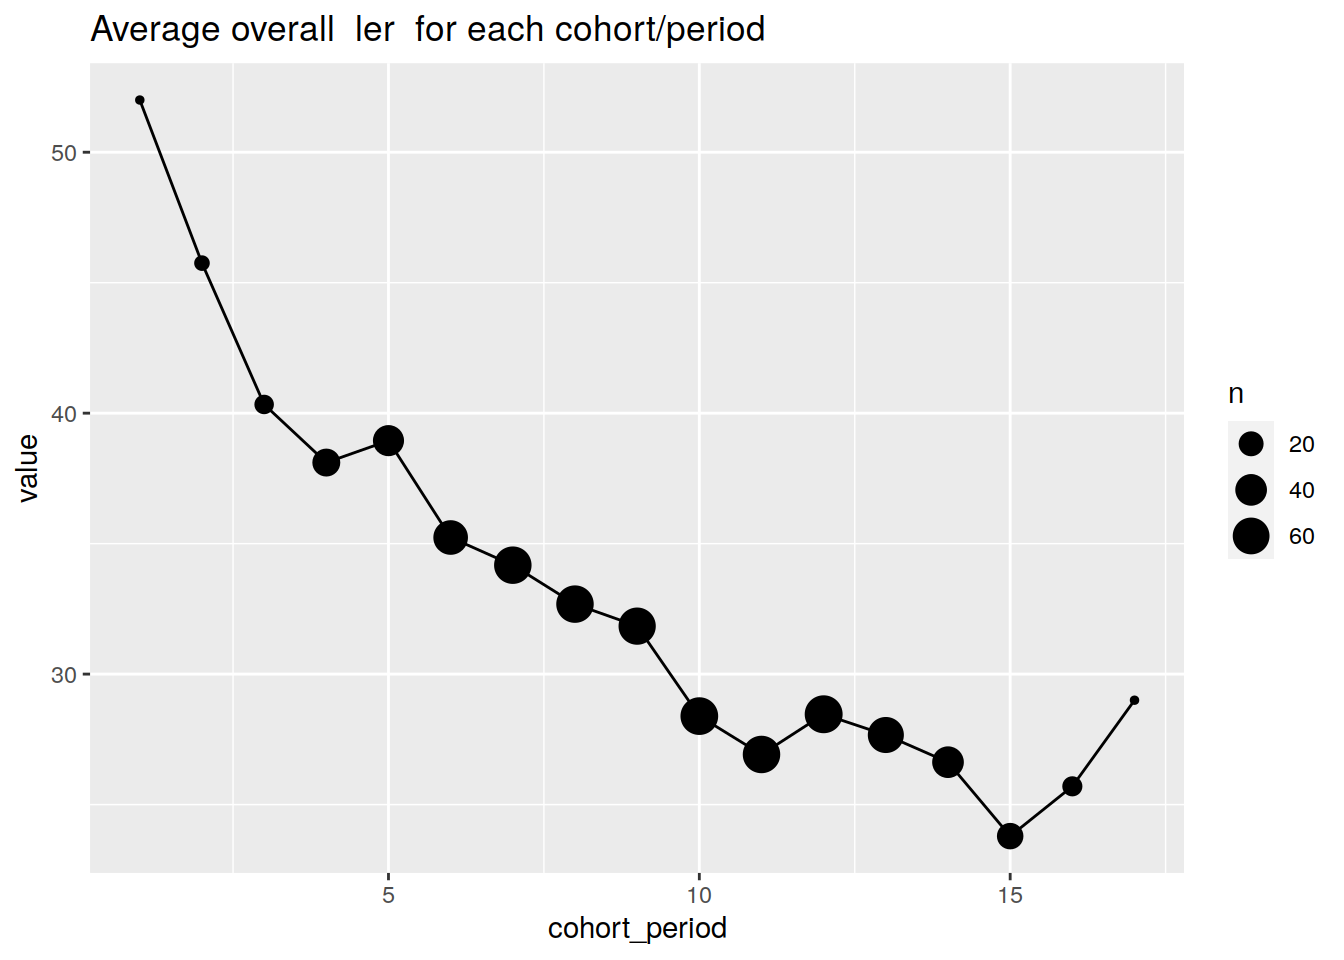
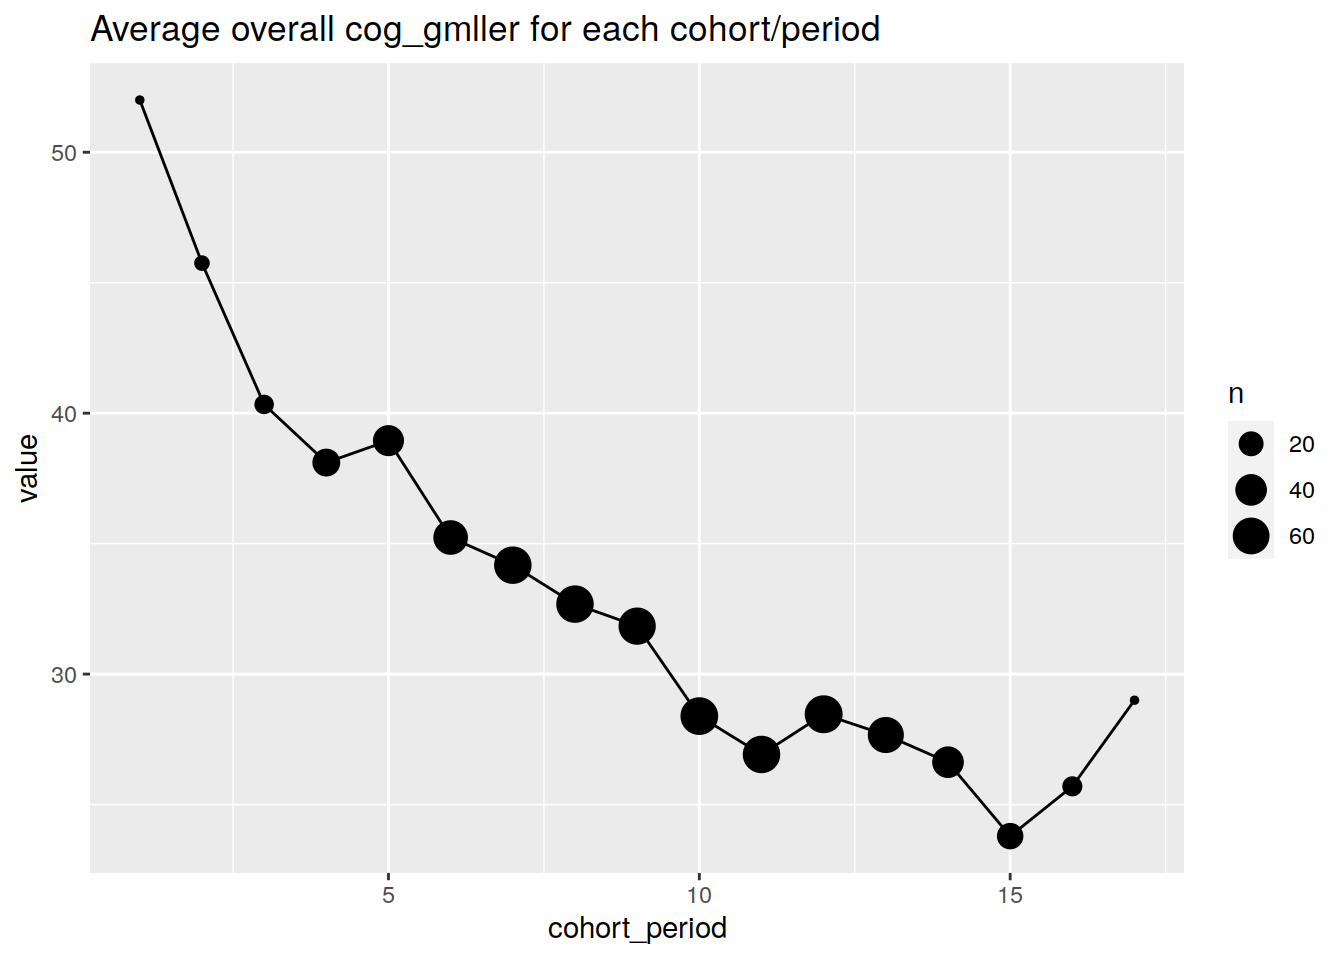
Build site.

Changed region(s): [[0.25, 0.0, 0.6562, 0.0625]]

diff --git a/docs/initial.html b/docs/initial.html
@@ -403,7 +403,7 @@ div.section {
 <div class="tab-content">
 <div id="summary" class="tab-pane fade in active">
 <p>
-<strong>Last updated:</strong> 2020-04-15
+<strong>Last updated:</strong> 2020-04-16
 </p>
 <p>
 <strong>Checks:</strong> <span class="glyphicon glyphicon-ok text-success" aria-hidden="true"></span> 7 <span class="glyphicon glyphicon-exclamation-sign text-danger" aria-hidden="true"></span> 0
@@ -494,24 +494,22 @@ This reproducible <a href="http://rmarkdown.rstudio.com">R Markdown</a> analysis
 <div class="panel panel-default">
 <div class="panel-heading">
 <p class="panel-title">
-<a data-toggle="collapse" data-parent="#workflowr-checks" href="#strongRepositoryversionstrongbaeba67"> <span class="glyphicon glyphicon-ok text-success" aria-hidden="true"></span> <strong>Repository version:</strong> baeba67 </a>
+<a data-toggle="collapse" data-parent="#workflowr-checks" href="#strongRepositoryversionstrongahrefhttpsgithubcomdewollerscottgrotontree4d3049445e3a359d00a7f00b9f14ddc88391cfb6targetblank4d30494a"> <span class="glyphicon glyphicon-ok text-success" aria-hidden="true"></span> <strong>Repository version:</strong> <a href="https://github.com/dewoller/scott_groton/tree/4d3049445e3a359d00a7f00b9f14ddc88391cfb6" target="_blank">4d30494</a> </a>
 </p>
 </div>
-<div id="strongRepositoryversionstrongbaeba67" class="panel-collapse collapse">
[1 lines of base64/hex data omitted]
 <div class="panel-body">
 <p>
 Great! You are using Git for version control. Tracking code development and connecting the code version to the results is critical for reproducibility. The version displayed above was the version of the Git repository at the time these results were generated. <br><br> Note that you need to be careful to ensure that all relevant files for the analysis have been committed to Git prior to generating the results (you can use <code>wflow_publish</code> or <code>wflow_git_commit</code>). workflowr only checks the R Markdown file, but you know if there are other scripts or data files that it depends on. Below is the status of the Git repository when the results were generated:
 </p>
 <pre><code>
-Untracked files:
-    Untracked:  data/Groton Maze.sav
-    Untracked:  data/Groton Maze_v2.sav
-    Untracked:  data/Ruddock et al (2016) - Coupling online control...(GCM).pdf
-    Untracked:  explore/
-    Untracked:  lib/
+Ignored files:
+    Ignored:    data/Groton Maze.sav
+    Ignored:    data/Groton Maze_v2.sav
+    Ignored:    data/Ruddock et al (2016) - Coupling online control...(GCM).pdf
 
 Unstaged changes:
-    Deleted:    .Rprofile
+    Modified:   explore/explore.R
 
 </code></pre>
 <p>
@@ -552,10 +550,44 @@ Message
 <tbody>
 <tr>
 <td>
+Rmd
+</td>
+<td>
+<a href="https://github.com/dewoller/scott_groton/blob/4d3049445e3a359d00a7f00b9f14ddc88391cfb6/analysis/initial.Rmd" target="_blank">4d30494</a>
+</td>
+<td>
+Dennis Wollersheim
+</td>
+<td>
+2020-04-15
+</td>
+<td>
+wflow_publish(“analysis/initial.Rmd”)
+</td>
+</tr>
+<tr>
+<td>
 html
 </td>
 <td>
-baeba67
+<a href="https://rawcdn.githack.com/dewoller/scott_groton/4d3049445e3a359d00a7f00b9f14ddc88391cfb6/docs/initial.html" target="_blank">4d30494</a>
+</td>
+<td>
+Dennis Wollersheim
+</td>
+<td>
+2020-04-15
+</td>
+<td>
+wflow_publish(“analysis/initial.Rmd”)
+</td>
+</tr>
+<tr>
+<td>
+html
+</td>
+<td>
+<a href="https://rawcdn.githack.com/dewoller/scott_groton/baeba670ae3cdb6a94cb8e336c590c9f8eddbdbf/docs/initial.html" target="_blank">baeba67</a>
 </td>
 <td>
 Dennis Wollersheim
@@ -572,7 +604,7 @@ Build site.
 Rmd
 </td>
 <td>
-053928a
+<a href="https://github.com/dewoller/scott_groton/blob/053928a632952d4cb93b38081caf9de489057632/analysis/initial.Rmd" target="_blank">053928a</a>
 </td>
 <td>
 Dennis Wollersheim
@@ -596,7 +628,7 @@ wflow_publish(“analysis/initial.Rmd”)
 #make_one_introductory_graph(&#39;dur&#39;)
 make_one_introductory_graph = function( graph_type ) {
   cat(&#39;\n&#39;)
-  cat(paste(&#39;# Summary of &#39;, graph_type, &#39;Section &#39;))
+  cat(paste0(&#39;# Variable &#39;, prefix, graph_type ))
   cat(&#39;\n&#39;)
 
   df_in_long %&gt;%
@@ -609,7 +641,7 @@ make_one_introductory_graph = function( graph_type ) {
     ggplot( aes( cohort_period, value, color=cohort   )) +
     geom_line() +
     geom_point(aes(size=n)) +
-    ggtitle( paste(&#39;Average&#39;, graph_type, &#39;by cohort &#39;)) %&gt;%
+    ggtitle( paste0(&#39;Average &#39;, prefix, graph_type, &#39; by cohort &#39;)) %&gt;%
     { . } -&gt; p
   print(p)
   cat(&#39;\n&#39;)
@@ -623,7 +655,7 @@ make_one_introductory_graph = function( graph_type ) {
     ggplot( aes( cohort_period, value)) +
     geom_line() +
     geom_point(aes(size=n)) +
-    ggtitle( paste(&#39;Average overall &#39;, graph_type, &#39; for each cohort/period&#39;)) %&gt;%
+    ggtitle( paste0(&#39;Average overall &#39;, prefix, graph_type, &#39; for each cohort/period&#39;)) %&gt;%
     { . } -&gt; p
   print(p)
   cat(&#39;\n&#39;)
@@ -633,7 +665,7 @@ make_one_introductory_graph = function( graph_type ) {
     mutate( cohort_period = as.factor(cohort + period - 1 )) %&gt;%
     ggplot( aes( cohort_period, value)) +
     geom_boxplot() +
-    ggtitle( paste(&#39;Boxplot X &#39;, graph_type , &#39;&#39;)) %&gt;%
+    ggtitle( paste0(&#39;Boxplot for each cohort/period for variable &#39;, prefix, graph_type , &#39;&#39;)) %&gt;%
     { . } -&gt; p
   print(p)
 
@@ -646,8 +678,8 @@ make_one_introductory_graph = function( graph_type ) {
     rowwise() %&gt;%
     pluck(&#39;type&#39;) %&gt;%
     walk( make_one_introductory_graph )</code></pre>
-<div id="summary-of-mps-section" class="section level1">
-<h1>Summary of mps Section</h1>
+<div id="variable-cog_gmlmps" class="section level1">
+<h1>Variable cog_gmlmps</h1>
 <p><img src="figure/initial.Rmd/graph-1.png" width="672" style="display: block; margin: auto;" /></p>
 <p>
 <button type="button" class="btn btn-default btn-xs btn-workflowr btn-workflowr-fig" data-toggle="collapse" data-target="#fig-graph-1">
@@ -673,7 +705,7 @@ Date
 <tbody>
 <tr>
 <td>
-baeba67
+<a href="https://github.com/dewoller/scott_groton/blob/baeba670ae3cdb6a94cb8e336c590c9f8eddbdbf/docs/figure/initial.Rmd/graph-1.png" target="_blank">baeba67</a>
 </td>
 <td>
 Dennis Wollersheim
@@ -711,7 +743,7 @@ Date
 <tbody>
 <tr>
 <td>
-baeba67
+<a href="https://github.com/dewoller/scott_groton/blob/baeba670ae3cdb6a94cb8e336c590c9f8eddbdbf/docs/figure/initial.Rmd/graph-2.png" target="_blank">baeba67</a>
 </td>
 <td>
 Dennis Wollersheim
@@ -749,7 +781,7 @@ Date
 <tbody>
 <tr>
 <td>
-baeba67
+<a href="https://github.com/dewoller/scott_groton/blob/baeba670ae3cdb6a94cb8e336c590c9f8eddbdbf/docs/figure/initial.Rmd/graph-3.png" target="_blank">baeba67</a>
 </td>
 <td>
 Dennis Wollersheim
@@ -763,8 +795,8 @@ Dennis Wollersheim
 </div>
 </div>
 </div>
-<div id="summary-of-dur-section" class="section level1">
-<h1>Summary of dur Section</h1>
+<div id="variable-cog_gmldur" class="section level1">
+<h1>Variable cog_gmldur</h1>
 <p><img src="figure/initial.Rmd/graph-4.png" width="672" style="display: block; margin: auto;" /></p>
 <p>
 <button type="button" class="btn btn-default btn-xs btn-workflowr btn-workflowr-fig" data-toggle="collapse" data-target="#fig-graph-4">
@@ -790,7 +822,7 @@ Date
 <tbody>
 <tr>
 <td>
-baeba67
+<a href="https://github.com/dewoller/scott_groton/blob/baeba670ae3cdb6a94cb8e336c590c9f8eddbdbf/docs/figure/initial.Rmd/graph-4.png" target="_blank">baeba67</a>
 </td>
 <td>
 Dennis Wollersheim
@@ -828,7 +860,7 @@ Date
 <tbody>
 <tr>
 <td>
-baeba67
+<a href="https://github.com/dewoller/scott_groton/blob/baeba670ae3cdb6a94cb8e336c590c9f8eddbdbf/docs/figure/initial.Rmd/graph-5.png" target="_blank">baeba67</a>
 </td>
 <td>
 Dennis Wollersheim
@@ -866,7 +898,7 @@ Date
 <tbody>
 <tr>
 <td>
-baeba67
+<a href="https://github.com/dewoller/scott_groton/blob/baeba670ae3cdb6a94cb8e336c590c9f8eddbdbf/docs/figure/initial.Rmd/graph-6.png" target="_blank">baeba67</a>
 </td>
 <td>
 Dennis Wollersheim
@@ -880,8 +912,8 @@ Dennis Wollersheim
 </div>
 </div>
 </div>
-<div id="summary-of-ter-section" class="section level1">
-<h1>Summary of ter Section</h1>
+<div id="variable-cog_gmlter" class="section level1">
+<h1>Variable cog_gmlter</h1>
 <p><img src="figure/initial.Rmd/graph-7.png" width="672" style="display: block; margin: auto;" /></p>
 <p>
 <button type="button" class="btn btn-default btn-xs btn-workflowr btn-workflowr-fig" data-toggle="collapse" data-target="#fig-graph-7">
@@ -907,7 +939,7 @@ Date
 <tbody>
 <tr>
 <td>
-baeba67
+<a href="https://github.com/dewoller/scott_groton/blob/baeba670ae3cdb6a94cb8e336c590c9f8eddbdbf/docs/figure/initial.Rmd/graph-7.png" target="_blank">baeba67</a>
 </td>
 <td>
 Dennis Wollersheim
@@ -945,7 +977,7 @@ Date
 <tbody>
 <tr>
 <td>
-baeba67
+<a href="https://github.com/dewoller/scott_groton/blob/baeba670ae3cdb6a94cb8e336c590c9f8eddbdbf/docs/figure/initial.Rmd/graph-8.png" target="_blank">baeba67</a>
 </td>
 <td>
 Dennis Wollersheim
@@ -983,7 +1015,7 @@ Date
 <tbody>
 <tr>
 <td>
-baeba67
+<a href="https://github.com/dewoller/scott_groton/blob/baeba670ae3cdb6a94cb8e336c590c9f8eddbdbf/docs/figure/initial.Rmd/graph-9.png" target="_blank">baeba67</a>
 </td>
 <td>
 Dennis Wollersheim
@@ -997,8 +1029,8 @@ Dennis Wollersheim
 </div>
 </div>
 </div>
-<div id="summary-of-ler-section" class="section level1">
-<h1>Summary of ler Section</h1>
+<div id="variable-cog_gmller" class="section level1">
+<h1>Variable cog_gmller</h1>
 <p><img src="figure/initial.Rmd/graph-10.png" width="672" style="display: block; margin: auto;" /></p>
 <p>
 <button type="button" class="btn btn-default btn-xs btn-workflowr btn-workflowr-fig" data-toggle="collapse" data-target="#fig-graph-10">
@@ -1024,7 +1056,7 @@ Date
 <tbody>
 <tr>
 <td>
-baeba67
+<a href="https://github.com/dewoller/scott_groton/blob/baeba670ae3cdb6a94cb8e336c590c9f8eddbdbf/docs/figure/initial.Rmd/graph-10.png" target="_blank">baeba67</a>
 </td>
 <td>
 Dennis Wollersheim
@@ -1062,7 +1094,7 @@ Date
 <tbody>
 <tr>
 <td>
-baeba67
+<a href="https://github.com/dewoller/scott_groton/blob/baeba670ae3cdb6a94cb8e336c590c9f8eddbdbf/docs/figure/initial.Rmd/graph-11.png" target="_blank">baeba67</a>
 </td>
 <td>
 Dennis Wollersheim
@@ -1100,7 +1132,7 @@ Date
 <tbody>
 <tr>
 <td>
-baeba67
+<a href="https://github.com/dewoller/scott_groton/blob/baeba670ae3cdb6a94cb8e336c590c9f8eddbdbf/docs/figure/initial.Rmd/graph-12.png" target="_blank">baeba67</a>
 </td>
 <td>
 Dennis Wollersheim
@@ -1114,8 +1146,8 @@ Dennis Wollersheim
 </div>
 </div>
 </div>
-<div id="summary-of-rer-section" class="section level1">
-<h1>Summary of rer Section</h1>
+<div id="variable-cog_gmlrer" class="section level1">
+<h1>Variable cog_gmlrer</h1>
 <p><img src="figure/initial.Rmd/graph-13.png" width="672" style="display: block; margin: auto;" /></p>
 <p>
 <button type="button" class="btn btn-default btn-xs btn-workflowr btn-workflowr-fig" data-toggle="collapse" data-target="#fig-graph-13">
@@ -1141,7 +1173,7 @@ Date
 <tbody>
 <tr>
 <td>
-baeba67
+<a href="https://github.com/dewoller/scott_groton/blob/baeba670ae3cdb6a94cb8e336c590c9f8eddbdbf/docs/figure/initial.Rmd/graph-13.png" target="_blank">baeba67</a>
 </td>
 <td>
 Dennis Wollersheim
@@ -1179,7 +1211,7 @@ Date
 <tbody>
 <tr>
 <td>
-baeba67
+<a href="https://github.com/dewoller/scott_groton/blob/baeba670ae3cdb6a94cb8e336c590c9f8eddbdbf/docs/figure/initial.Rmd/graph-14.png" target="_blank">baeba67</a>
 </td>
 <td>
 Dennis Wollersheim
@@ -1217,7 +1249,7 @@ Date
 <tbody>
 <tr>
 <td>
-baeba67
+<a href="https://github.com/dewoller/scott_groton/blob/baeba670ae3cdb6a94cb8e336c590c9f8eddbdbf/docs/figure/initial.Rmd/graph-15.png" target="_blank">baeba67</a>
 </td>
 <td>
 Dennis Wollersheim
@@ -1231,8 +1263,8 @@ Dennis Wollersheim
 </div>
 </div>
 </div>
-<div id="summary-of-per-section" class="section level1">
-<h1>Summary of per Section</h1>
+<div id="variable-cog_gmlper" class="section level1">
+<h1>Variable cog_gmlper</h1>
 <p><img src="figure/initial.Rmd/graph-16.png" width="672" style="display: block; margin: auto;" /></p>
 <p>
 <button type="button" class="btn btn-default btn-xs btn-workflowr btn-workflowr-fig" data-toggle="collapse" data-target="#fig-graph-16">
@@ -1258,7 +1290,7 @@ Date
 <tbody>
 <tr>
 <td>
-baeba67
+<a href="https://github.com/dewoller/scott_groton/blob/baeba670ae3cdb6a94cb8e336c590c9f8eddbdbf/docs/figure/initial.Rmd/graph-16.png" target="_blank">baeba67</a>
 </td>
 <td>
 Dennis Wollersheim
@@ -1296,7 +1328,7 @@ Date
 <tbody>
 <tr>
 <td>
-baeba67
+<a href="https://github.com/dewoller/scott_groton/blob/baeba670ae3cdb6a94cb8e336c590c9f8eddbdbf/docs/figure/initial.Rmd/graph-17.png" target="_blank">baeba67</a>
 </td>
 <td>
 Dennis Wollersheim
@@ -1334,7 +1366,7 @@ Date
 <tbody>
 <tr>
 <td>
-baeba67
+<a href="https://github.com/dewoller/scott_groton/blob/baeba670ae3cdb6a94cb8e336c590c9f8eddbdbf/docs/figure/initial.Rmd/graph-18.png" target="_blank">baeba67</a>
 </td>
 <td>
 Dennis Wollersheim
@@ -1348,8 +1380,8 @@ Dennis Wollersheim
 </div>
 </div>
 </div>
-<div id="summary-of-rth-section" class="section level1">
-<h1>Summary of rth Section</h1>
+<div id="variable-cog_gmlrth" class="section level1">
+<h1>Variable cog_gmlrth</h1>
 <p><img src="figure/initial.Rmd/graph-19.png" width="672" style="display: block; margin: auto;" /></p>
 <p>
 <button type="button" class="btn btn-default btn-xs btn-workflowr btn-workflowr-fig" data-toggle="collapse" data-target="#fig-graph-19">
@@ -1375,7 +1407,7 @@ Date
 <tbody>
 <tr>
 <td>
-baeba67
+<a href="https://github.com/dewoller/scott_groton/blob/baeba670ae3cdb6a94cb8e336c590c9f8eddbdbf/docs/figure/initial.Rmd/graph-19.png" target="_blank">baeba67</a>
 </td>
 <td>
 Dennis Wollersheim
@@ -1413,7 +1445,7 @@ Date
 <tbody>
 <tr>
 <td>
-baeba67
+<a href="https://github.com/dewoller/scott_groton/blob/baeba670ae3cdb6a94cb8e336c590c9f8eddbdbf/docs/figure/initial.Rmd/graph-20.png" target="_blank">baeba67</a>
 </td>
 <td>
 Dennis Wollersheim
@@ -1451,7 +1483,7 @@ Date
 <tbody>
 <tr>
 <td>
-baeba67
+<a href="https://github.com/dewoller/scott_groton/blob/baeba670ae3cdb6a94cb8e336c590c9f8eddbdbf/docs/figure/initial.Rmd/graph-21.png" target="_blank">baeba67</a>
 </td>
 <td>
 Dennis Wollersheim
